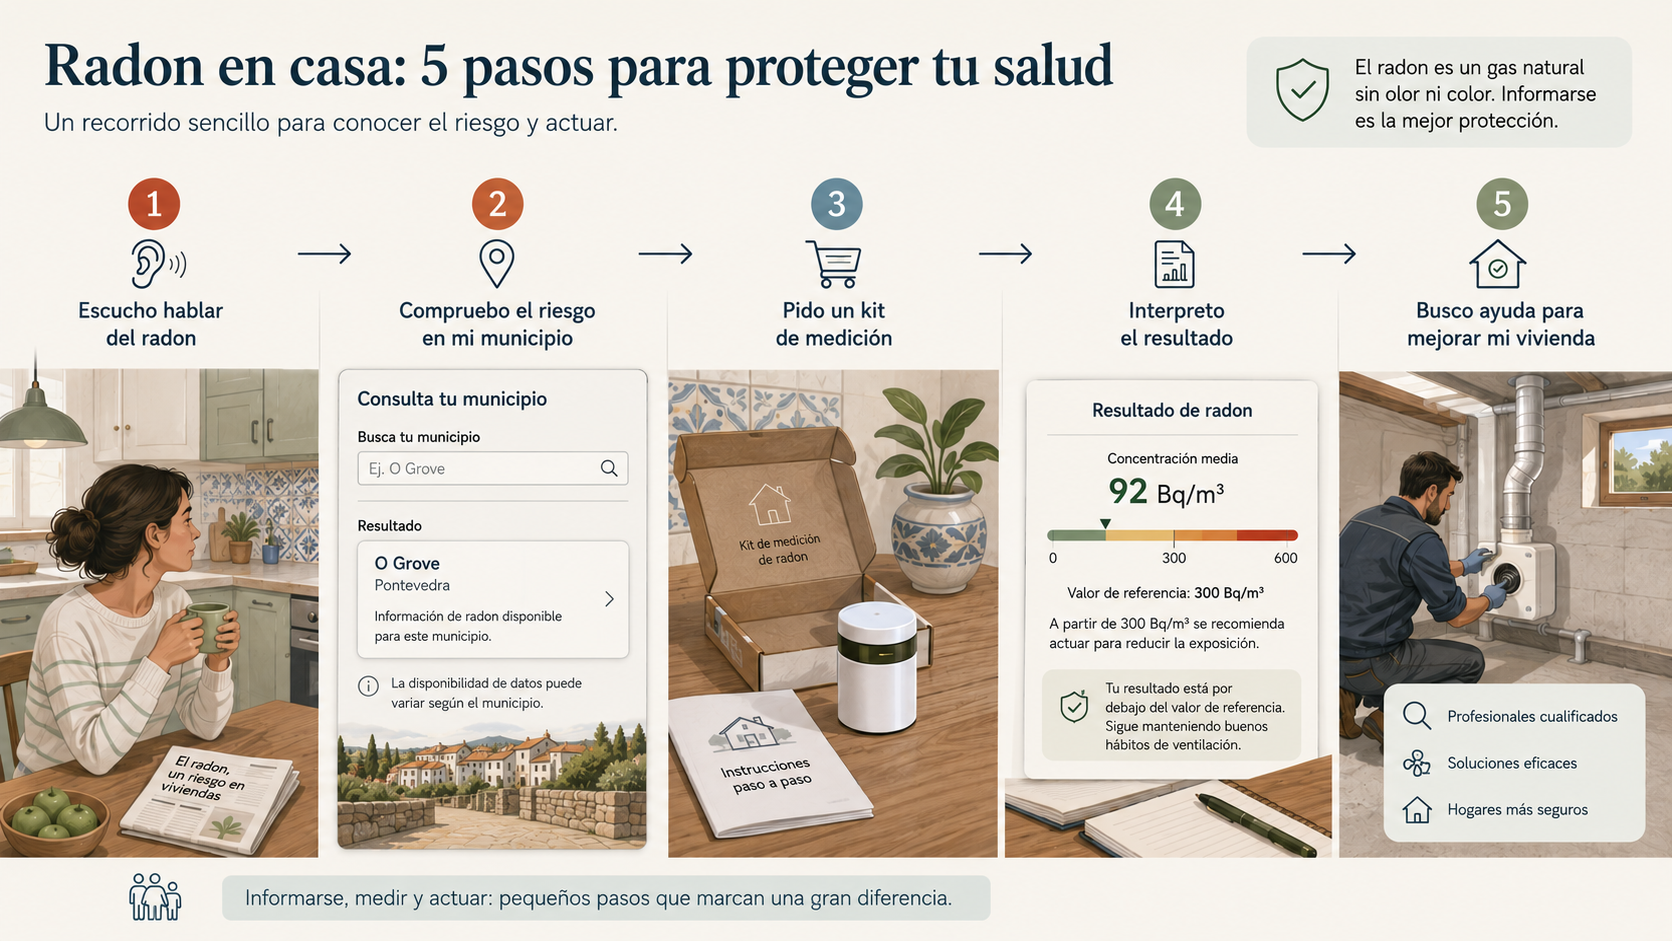
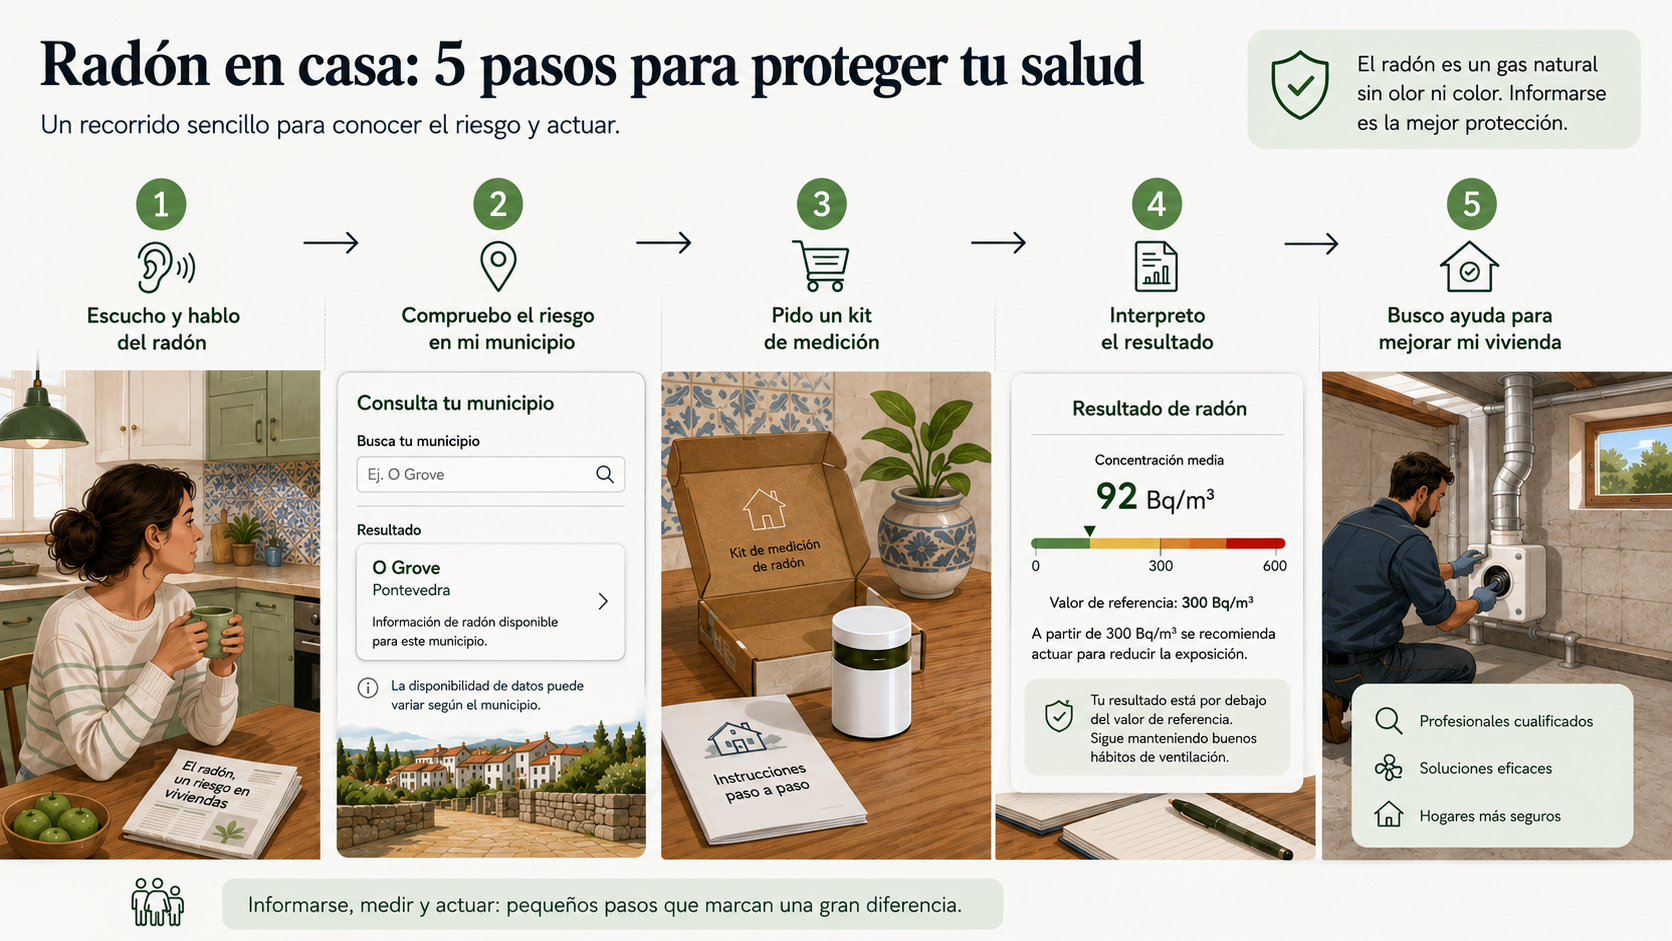
radon-tool: search-first landing redesign + not-classified safety alert + accented infographic
- Slim the hero to a human headline (¿Hay radón en tu municipio?) plus the search box; demote the coverage-stats dashboard to a 'Cobertura actual' card near the sources.

- Add a prominent but softly worded amber alert on 'no clasificado' results: «No clasificado» no significa «sin radón».

- Replace the ES journey infographic with the accent-corrected version (radón).

diff --git a/src/App.tsx b/src/App.tsx
@@ -287,123 +287,18 @@ export default function App() {
               EN
             </button>
           </div>
-          <section className="journeyBlock" aria-label={tcopy(language, 'Cómo funciona', 'How it works')}>
-            <div className="journeyIntro">
-              <p className="eyebrow">{tcopy(language, 'Cómo funciona', 'How it works')}</p>
-              <h2>{tcopy(language, 'Comprueba tu municipio y decide el siguiente paso', 'Check your municipality and decide the next step')}</h2>
-              <p>
-                {tcopy(
-                  language,
-                  'La idea es simple: averiguas si tu municipio aparece en la clasificación actual, entiendes lo que eso significa y decides si conviene medir o pedir más información.',
-                  'The idea is simple: find out whether your municipality appears in the current classification, understand what that means, and decide whether it makes sense to test or ask for more information.',
-                )}
-              </p>
-            </div>
-            <div className="journeyStrip">
-              <article className="journeyStep">
-                <span className="journeyNumber">1</span>
-                <div>
-                  <strong>{tcopy(language, 'Busca tu municipio', 'Search your municipality')}</strong>
-                  <p>
-                    {tcopy(
-                      language,
-                      'Encuentra tu municipio en segundos, con o sin acentos.',
-                      'Find your municipality in seconds, with or without accents.',
-                    )}
-                  </p>
-                </div>
-              </article>
-              <article className="journeyStep">
-                <span className="journeyNumber">2</span>
-                <div>
-                  <strong>{tcopy(language, 'Entiende la señal', 'Understand the signal')}</strong>
-                  <p>
-                    {tcopy(
-                      language,
-                      'Mira si aparece como Zona I, Zona II, no clasificado o pendiente de validación.',
-                      'See whether it appears as Zone I, Zone II, not classified, or pending validation.',
-                    )}
-                  </p>
-                </div>
-              </article>
-              <article className="journeyStep">
-                <span className="journeyNumber">3</span>
-                <div>
-                  <strong>{tcopy(language, 'Decide qué hacer', 'Decide what to do')}</strong>
-                  <p>
-                    {tcopy(
-                      language,
-                      'Usa el resultado para decidir si medir, pedir más información o hablar con tu ayuntamiento o comunidad.',
-                      'Use the result to decide whether to test, ask for more information, or contact your town hall or building community.',
-                    )}
-                  </p>
-                </div>
-              </article>
-            </div>
-          </section>
-          <div className="heroLayout">
-            <div>
-              <p className="eyebrow">{tcopy(language, 'España', 'Spain')}</p>
-              <h1>{tcopy(language, 'Consulta preliminar de radón por municipio', 'Preliminary radon lookup by municipality')}</h1>
-              <p className="lede">
-                {tcopy(
-                  language,
-                  'Busca cualquier municipio de España, revisa si aparece como Zona I, Zona II, no clasificado o pendiente de validación, y añade un poco de contexto sobre la vivienda. Está pensada para orientar, no para certificar.',
-                  'Search any municipality in Spain, check whether it appears as Zone I, Zone II, not classified, or pending validation, and add a little housing context. It is designed to orient, not to certify.',
-                )}
-              </p>
-              <div className="heroGuidance">
-                <div className="heroGuidanceItem">
-                  <strong>{tcopy(language, 'Búsqueda completa', 'Full search base')}</strong>
-                  <span>{tcopy(language, 'Base INE completa, no solo municipios clasificados.', 'Full INE base, not only classified municipalities.')}</span>
-                </div>
-                <div className="heroGuidanceItem">
-                  <strong>{tcopy(language, 'Lectura honesta', 'Honest reading')}</strong>
-                  <span>{tcopy(language, 'Si un bloque provincial no es fiable, se marca como pendiente de validación.', 'If a provincial block is not reliable, it is marked as pending validation.')}</span>
-                </div>
-              </div>
-              <div className="notice warning">
-                <strong>{tcopy(language, 'Estado del dato:', 'Data status:')}</strong>{' '}
-                {tcopy(language, municipalityDataStatus.messageEs, municipalityDataStatus.messageEn)}
-              </div>
-            </div>
-
-            <aside className="heroPanel">
-              <p className="panelEyebrow">{tcopy(language, 'Cobertura actual', 'Current coverage')}</p>
-              <div className="statGrid">
-                <article className="statCard">
-                  <strong>{formatCount(language, municipalityDataSummary.total)}</strong>
-                  <span>{tcopy(language, 'municipios en búsqueda', 'municipalities searchable')}</span>
-                </article>
-                <article className="statCard">
-                  <strong>{formatCount(language, municipalityDataSummary.classified)}</strong>
-                  <span>{tcopy(language, 'con clasificación visible', 'with visible classification')}</span>
-                </article>
-                <article className="statCard">
-                  <strong>{formatCount(language, municipalityDataSummary.notClassified)}</strong>
-                  <span>{tcopy(language, 'sin clasificación mostrada', 'with no shown classification')}</span>
-                </article>
-                <article className="statCard statCard-alert">
-                  <strong>{formatCount(language, municipalityDataSummary.pendingValidation)}</strong>
-                  <span>{tcopy(language, 'pendientes de validación', 'pending validation')}</span>
-                </article>
-              </div>
-
-              <div className="legendList">
-                <div className="legendItem">
-                  <span className="legendSwatch legendSwatch-i" />
-                  <span>{tcopy(language, 'Zona I o II: aparece en la superposición actual.', 'Zone I or II: appears in the current overlay.')}</span>
-                </div>
-                <div className="legendItem">
-                  <span className="legendSwatch legendSwatch-neutral" />
-                  <span>{tcopy(language, 'No clasificado: no figura en el Apéndice B retenido.', 'Not classified: does not appear in the retained Appendix B layer.')}</span>
-                </div>
-                <div className="legendItem">
-                  <span className="legendSwatch legendSwatch-pending" />
-                  <span>{tcopy(language, 'Pendiente: la provincia sigue en revisión y no debe leerse como tranquilidad.', 'Pending: the province is still under review and should not be read as reassurance.')}</span>
-                </div>
-              </div>
-            </aside>
+          <p className="eyebrow">{tcopy(language, 'España · Radón', 'Spain · Radon')}</p>
+          <h1>{tcopy(language, '¿Hay radón en tu municipio?', 'Is there radon in your municipality?')}</h1>
+          <p className="lede">
+            {tcopy(
+              language,
+              'Escribe tu municipio y verás si está marcado como zona de atención por radón, qué significa y qué puedes hacer. Es gratis, sin ánimo de lucro y sin nada que vender. Orienta; no certifica ni sustituye una medición.',
+              'Type your municipality and see whether it is flagged as a radon priority area, what that means, and what you can do. Free, non-commercial, with nothing to sell. It orients; it does not certify or replace a measurement.',
+            )}
+          </p>
+          <div className="notice warning">
+            <strong>{tcopy(language, 'Estado del dato:', 'Data status:')}</strong>{' '}
+            {tcopy(language, municipalityDataStatus.messageEs, municipalityDataStatus.messageEn)}
           </div>
         </section>
 
@@ -527,6 +422,22 @@ export default function App() {
                 {selectedHasPendingClassification ? tcopy(language, 'Pendiente', 'Pending') : currentTitle}
               </div>
             </div>
+
+            {selected.zone === 'not_classified' && !selectedHasPendingClassification ? (
+              <div className="reassuranceAlert" role="alert">
+                <span className="reassuranceAlert-icon" aria-hidden="true">!</span>
+                <div>
+                  <strong>{tcopy(language, '«No clasificado» no significa «sin radón».', '“Not classified” does not mean “radon-free”.')}</strong>
+                  <p>
+                    {tcopy(
+                      language,
+                      'Solo quiere decir que esta lista oficial no marca tu municipio como prioritario — no que tu vivienda esté libre de radón. El nivel real depende también de la geología local, del edificio y de la planta. La forma de saberlo con seguridad es medir: es barato, sencillo y la única prueba fiable.',
+                      'It only means this official list does not flag your municipality as a priority — not that your home is free of radon. The real level also depends on local geology, the building, and the floor. The way to know for sure is to measure: it is cheap, simple, and the only reliable check.',
+                    )}
+                  </p>
+                </div>
+              </div>
+            ) : null}
 
             <div className="dual">
               <div>
@@ -723,6 +634,54 @@ export default function App() {
               )}
             </p>
           </article>
+        </section>
+
+        <section className="card coverageCard" aria-label={tcopy(language, 'Cobertura actual', 'Current coverage')}>
+          <div className="sectionIntro">
+            <div>
+              <p className="eyebrow">{tcopy(language, 'Cobertura actual', 'Current coverage')}</p>
+              <h2>{tcopy(language, 'Qué hay dentro de la búsqueda', 'What is inside the search')}</h2>
+            </div>
+            <p>
+              {tcopy(
+                language,
+                'Puedes buscar cualquier municipio de España. No todos tienen una clasificación visible, y algunas provincias están retenidas a propósito mientras se revisan.',
+                'You can search any municipality in Spain. Not all of them have a visible classification, and some provinces are deliberately withheld while they are under review.',
+              )}
+            </p>
+          </div>
+          <div className="statGrid">
+            <article className="statCard">
+              <strong>{formatCount(language, municipalityDataSummary.total)}</strong>
+              <span>{tcopy(language, 'municipios en búsqueda', 'municipalities searchable')}</span>
+            </article>
+            <article className="statCard">
+              <strong>{formatCount(language, municipalityDataSummary.classified)}</strong>
+              <span>{tcopy(language, 'con clasificación visible', 'with visible classification')}</span>
+            </article>
+            <article className="statCard">
+              <strong>{formatCount(language, municipalityDataSummary.notClassified)}</strong>
+              <span>{tcopy(language, 'sin clasificación mostrada', 'with no shown classification')}</span>
+            </article>
+            <article className="statCard statCard-alert">
+              <strong>{formatCount(language, municipalityDataSummary.pendingValidation)}</strong>
+              <span>{tcopy(language, 'pendientes de validación', 'pending validation')}</span>
+            </article>
+          </div>
+          <div className="legendList">
+            <div className="legendItem">
+              <span className="legendSwatch legendSwatch-i" />
+              <span>{tcopy(language, 'Zona I o II: aparece en la superposición actual.', 'Zone I or II: appears in the current overlay.')}</span>
+            </div>
+            <div className="legendItem">
+              <span className="legendSwatch legendSwatch-neutral" />
+              <span>{tcopy(language, 'No clasificado: no figura en el Apéndice B retenido.', 'Not classified: does not appear in the retained Appendix B layer.')}</span>
+            </div>
+            <div className="legendItem">
+              <span className="legendSwatch legendSwatch-pending" />
+              <span>{tcopy(language, 'Pendiente: la provincia sigue en revisión y no debe leerse como tranquilidad.', 'Pending: the province is still under review and should not be read as reassurance.')}</span>
+            </div>
+          </div>
         </section>
 
         <section className="card disclosureCard" aria-labelledby="disclosure-heading">

diff --git a/src/styles.css b/src/styles.css
@@ -654,3 +654,44 @@ select:focus,
     width: fit-content;
   }
 }
+
+/* Prominent "not classified ≠ safe" reassurance alert (shown only for not-classified results) */
+.reassuranceAlert {
+  display: flex;
+  gap: 14px;
+  align-items: flex-start;
+  margin: 8px 0;
+  padding: 18px 20px;
+  border-radius: 16px;
+  background: linear-gradient(180deg, #ffe6a0 0%, #ffd564 100%);
+  border: 1px solid #e8bf48;
+  box-shadow: 0 8px 22px rgba(150, 112, 18, 0.22);
+  color: #5a4209;
+}
+
+.reassuranceAlert-icon {
+  flex: 0 0 auto;
+  display: grid;
+  place-items: center;
+  width: 30px;
+  height: 30px;
+  border-radius: 999px;
+  background: #6f5310;
+  color: #ffefc0;
+  font-weight: 800;
+  font-size: 1.15rem;
+  line-height: 1;
+}
+
+.reassuranceAlert strong {
+  display: block;
+  font-size: 1.05rem;
+  margin-bottom: 4px;
+  color: #4a3607;
+}
+
+.reassuranceAlert p {
+  margin: 0;
+  color: #5a4209;
+  line-height: 1.5;
+}
